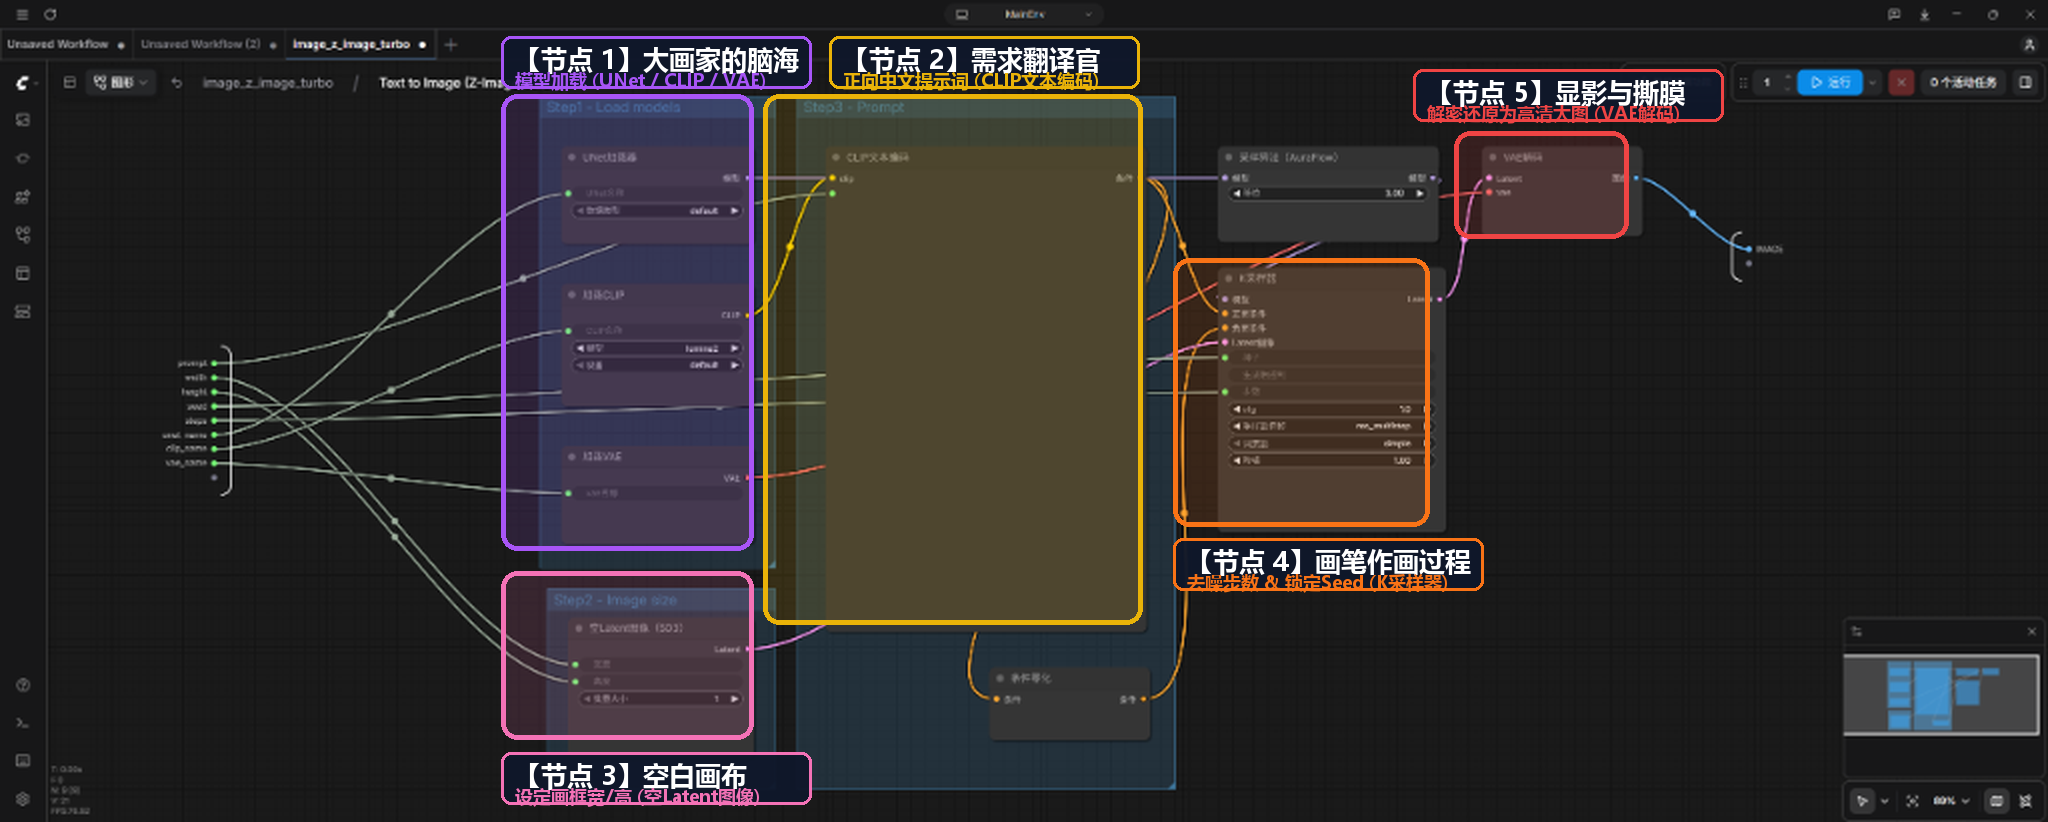
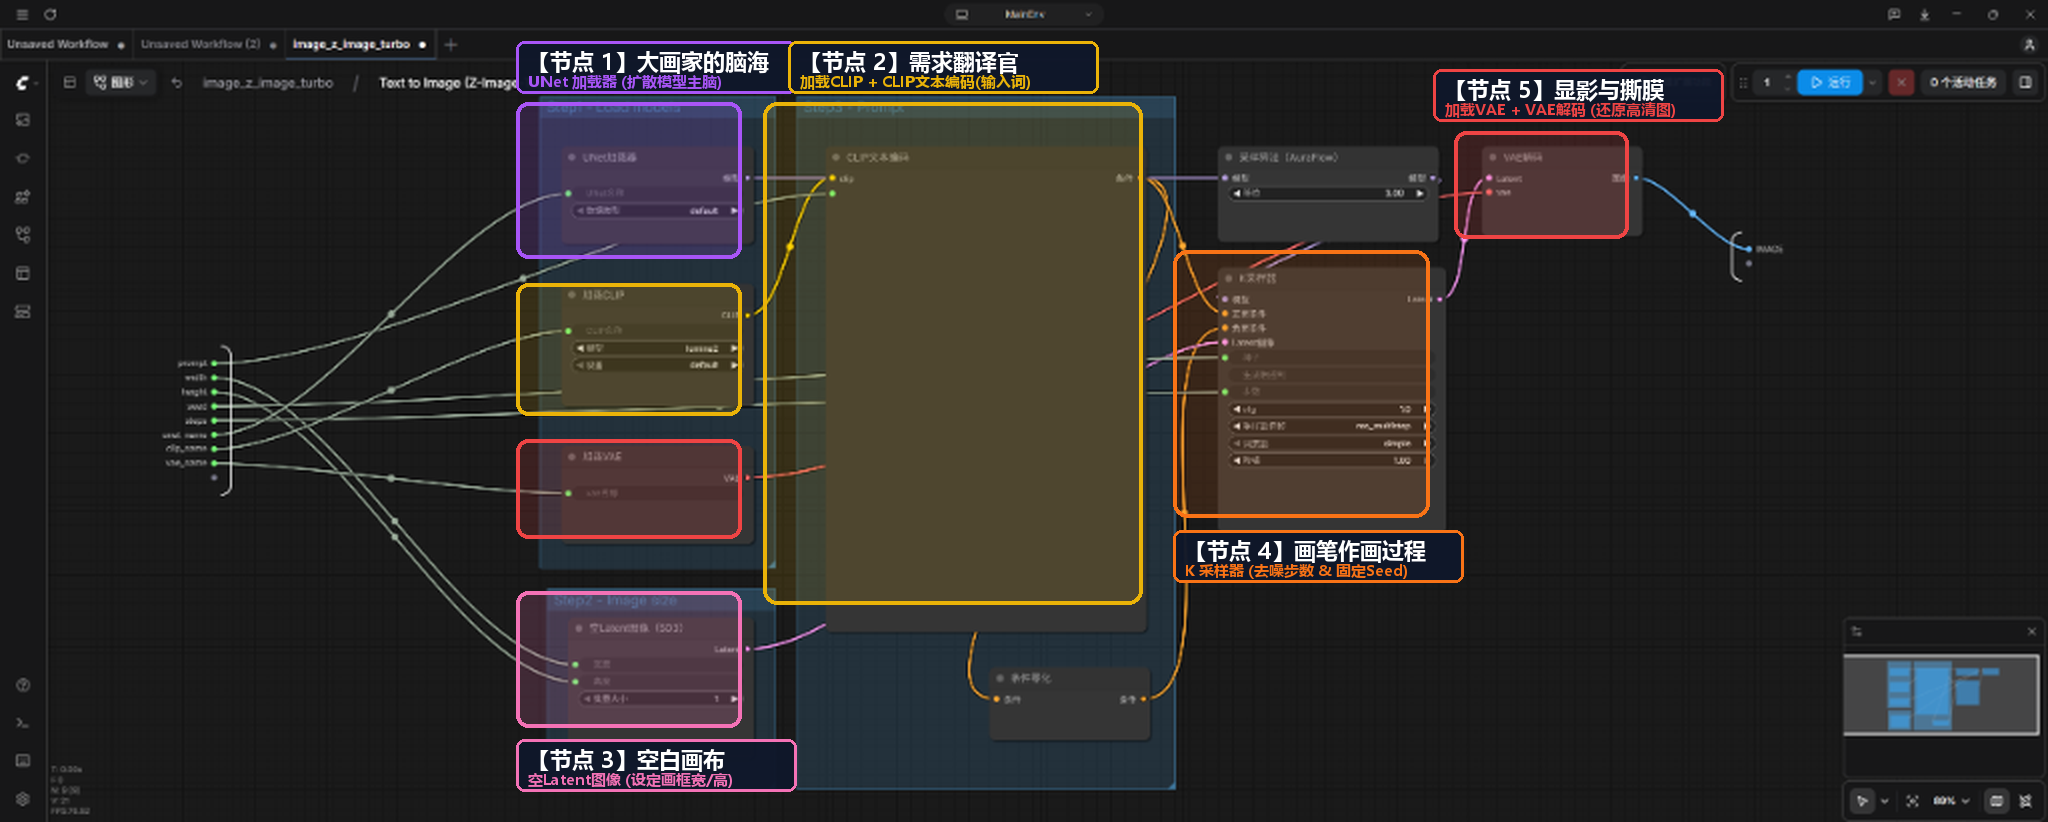
fix(docs): correctly separate UNet, CLIP loader+text, Latent, KSampler, and VAE loader+decode in 2K annotated diagram

diff --git a/docs/01-basics/01-core-nodes.md b/docs/01-basics/01-core-nodes.md
@@ -35,15 +35,15 @@
 ---
 
 
-### 1⃣ 大画家的脑海（Diffusion Model 节点）
-* **实例对应**：工作流中的 `z_image_turbo_bf16.safetensors`
+### 1⃣ 大画家的脑海（Diffusion Model / UNet 节点）
+* **真机对应**：左上角的 `UNet加载器`（对应 `z_image_turbo_bf16.safetensors`）
 * **大白话**：请来的顶级画家的脑袋（保存在 `models/diffusion_models/` 中）。
-* **作用**：他决定了你的画是**极高画质写实摄影风**还是**动漫风**。
+* **作用**：他决定了你的画是**极高画质写实摄影风**还是**动漫风**，紫色线直接直通采样器。
 
 ---
 
-### 2⃣ 需求翻译官（Text Encoder 节点）
-* **实例对应**：工作流中的 `qwen_3_4b.safetensors`
+### 2⃣ 需求翻译官（Text Encoder / CLIP 节点组）
+* **真机对应**：左侧中部的 `加载CLIP`（对应 `qwen_3_4b`） + 中间巨大的 `CLIP文本编码`（输入词框）
 * **大白话**：把你写的人话，翻译成画家听得懂的专业画术。
 * **作用**：
   * **正向提示词**：告诉画家“画什么”。因为有 Qwen 语言模型加持，直接写中文效果极佳！
@@ -52,14 +52,14 @@
 ---
 
 ### 3⃣ 空白画布（Empty Latent Image 节点）
-* **实例对应**：工作流中的 `width` / `height` 设置框
+* **真机对应**：左下角的 `空Latent图像 (SD3)` 节点
 * **大白话**：画框大小设置。
 * **作用**：决定你最终画出来的图片是正方形（`1024x1024`）、16:9 宽屏（`1344x768`）还是 21:9 电影特写屏（`1536x648`）。
 
 ---
 
 ### 4⃣ 画笔作画过程（KSampler 采样器 —— 最核心去噪步骤）
-* **实例对应**：工作流中的 `steps` / `seed` 设置项
+* **真机对应**：右侧中部的 `K 采样器` 节点
 * **大白话**：画家拿起画笔擦掉噪声、还原画面的作画过程！
 * **参数大白话**：
   * **Seed（随机种子）**：灵感序号。序号固定，画面构图就固定。
@@ -67,10 +67,10 @@
 
 ---
 
-### 5⃣ 显影与撕膜（VAE Decode 节点）
-* **实例对应**：工作流中的 `ae.safetensors`
-* **大白话**：洗照片的显影液 / 撕掉画板保护膜（保存在 `models/vae/` 中）。
-* **作用**：负责把电脑内部的数学数据解密成**人类眼睛看得懂的高清 PNG 图片**，最后传给 `Save Image` 显示在屏幕上！
+### 5⃣ 显影与撕膜（VAE 节点组）
+* **真机对应**：左下部的 `加载VAE`（对应 `ae.safetensors`） + 右上方的 `VAE解码` 节点
+* **大白话**：洗照片的显影液 / 撕掉画板保护膜。
+* **作用**：负责把电脑内部的数学潜空间数据解密成**人类肉眼看得懂的高清 PNG 图片**，最后传给 `保存图像` 节点显示在屏幕上！
 
 ---
 
